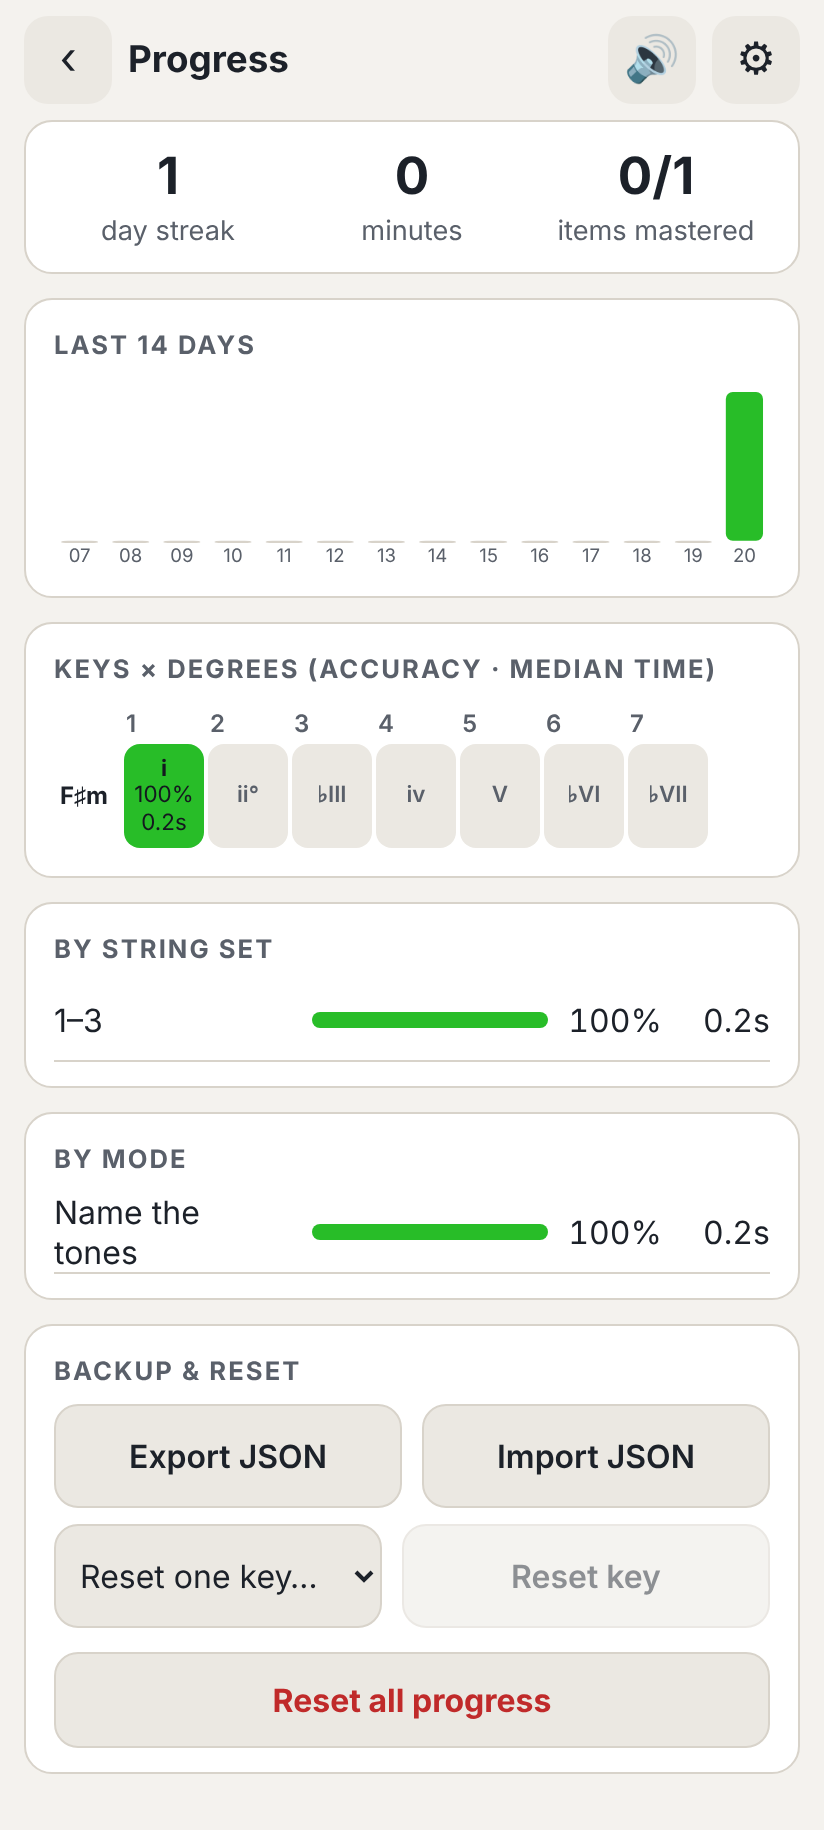
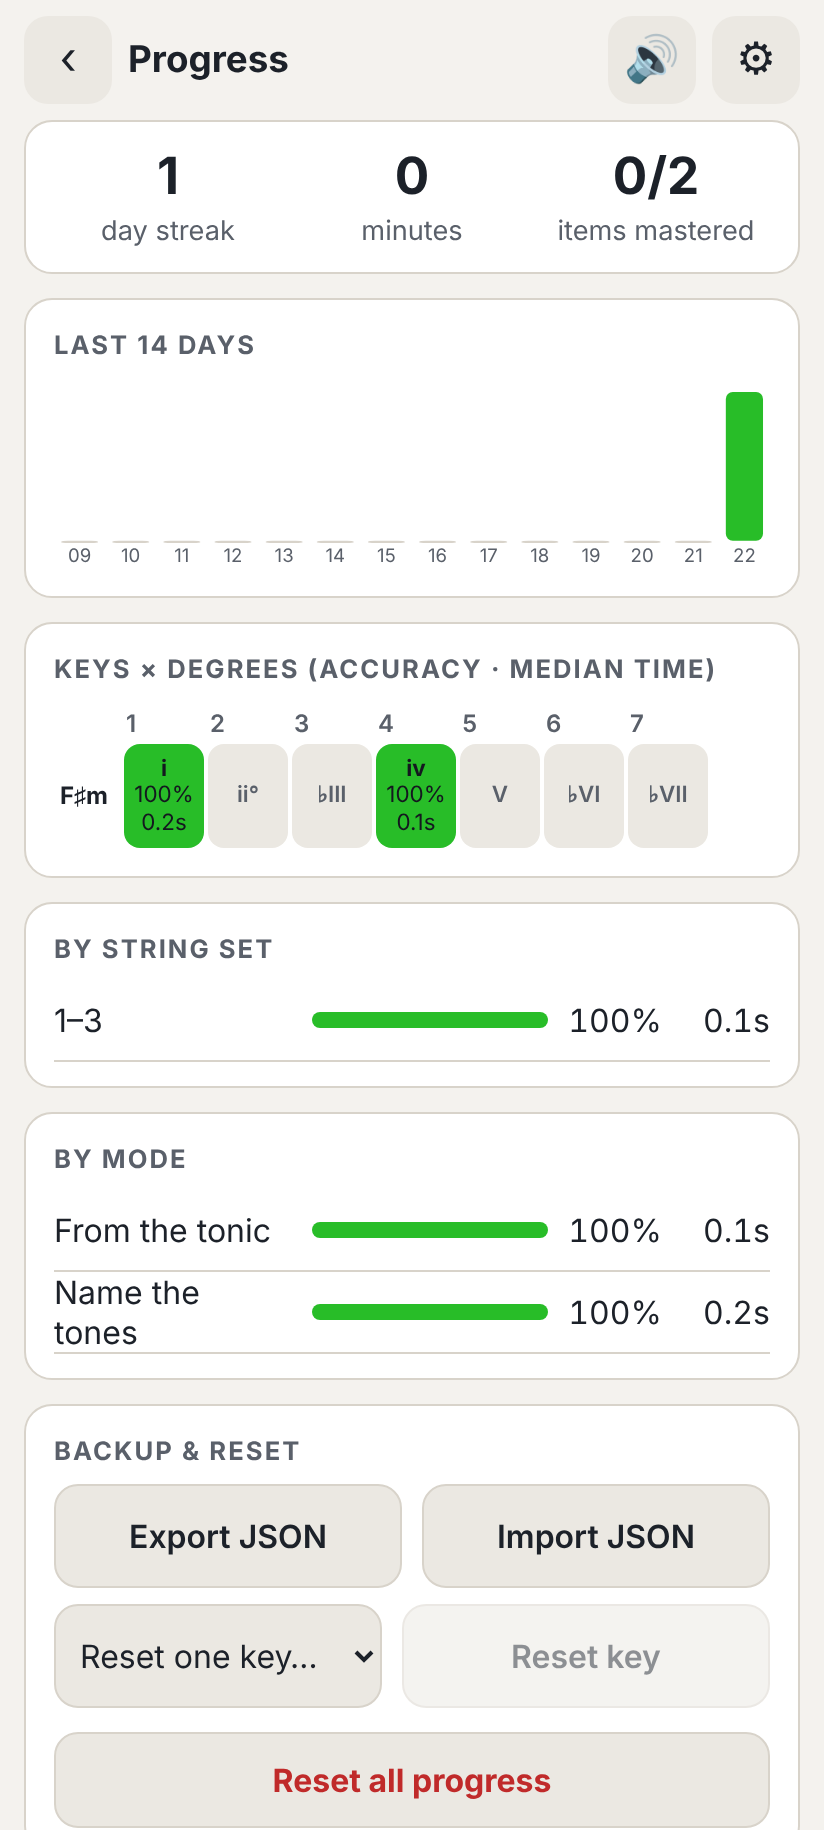
Docs: README screenshots/help for Help & about; standing rule to keep README and in-app help current
Claude-Session: https://claude.ai/code/session_011ir8KKaZ7qjeFtFQ81JPch

diff --git a/src/exercises/modes.test.ts b/src/exercises/modes.test.ts
@@ -1,0 +1,12 @@
+import { describe, expect, it } from 'vitest';
+import { MODES } from './modes';
+
+describe('in-app help covers every mode', () => {
+  it('each mode has a name, a one-line description and a "How it works" help text', () => {
+    for (const m of MODES) {
+      expect(m.name.length, m.id).toBeGreaterThan(3);
+      expect(m.description.length, m.id).toBeGreaterThan(15);
+      expect(m.help.length, m.id).toBeGreaterThan(80);
+    }
+  });
+});

diff --git a/tests/e2e/readme-shots.spec.ts b/tests/e2e/readme-shots.spec.ts
@@ -89,6 +89,10 @@ test.describe('phone', () => {
 
     await page.goto('./#/stats');
     await page.screenshot({ path: `${DIR}/progress.png` });
+
+    await page.goto('./');
+    await page.getByRole('button', { name: /^Help & about/ }).click();
+    await page.screenshot({ path: `${DIR}/help.png` });
   });
 });
 

diff --git a/CLAUDE.md b/CLAUDE.md
@@ -70,6 +70,18 @@ merge each milestone PR yourself once checks pass.
 - Every PR gets a preview link (PR comment, built by `preview.yml`) with demo data; point the
   owner to it for UI changes. Previews must not touch the live app's storage.
 - Add a line to `docs/CHANGELOG.md` for each PR.
+- **Keep user-facing docs current in the same PR.** If a PR changes anything a user can
+  see or do, the same PR must:
+  1. Regenerate the README screenshots (`npm run build && README_SHOTS=1 npx playwright
+test tests/e2e/readme-shots.spec.ts --trace off`), extending
+     `tests/e2e/readme-shots.spec.ts` when a new screen or feature deserves a shot, look at
+     them, and update the README text that describes the change.
+  2. Update the in-app help: _Help & about_ (`src/ui/screens/About.tsx`) and the mode's
+     `description` / `help` in `src/exercises/modes.ts`, so they describe the app as it is
+     after the PR (screens, names of buttons and settings, behaviour).
+  3. Tick both in the PR template's checklist (`.github/pull_request_template.md`).
+     Stacked PRs: each PR's README and help match that PR; regenerate again after merging a
+     base branch in.
 - If you find a spec gap or ambiguity, make a reasonable choice, document it in the PR,
   and propose a SPEC.md edit in the same PR.
 

diff --git a/README.md b/README.md
@@ -61,10 +61,14 @@ R–3–7 shells), in **one key or a random key** per question.
   strum when you're right, a muted thunk when you're not.
 - **Hints you control.** Role labels and colours on a given shape can be hidden, since
   they give the answer away.
+- **Help built in.** _Help & about_ explains getting started, the main ideas (roles,
+  numerals, string sets, inversions, anchors…) and every mode; each mode's setup has a
+  short _How it works_.
 
 <p>
   <img src="docs/screenshots/readme/quality-switch-dark.png" width="24%" alt="Quality switch in dark mode: D major turned minor by moving the 3rd down a fret">
   <img src="docs/screenshots/readme/home.png" width="24%" alt="Home screen">
+  <img src="docs/screenshots/readme/help.png" width="24%" alt="Help & about: getting started, the main ideas, every mode">
 </p>
 
 ## Development

diff --git a/docs/CHANGELOG.md b/docs/CHANGELOG.md
@@ -29,3 +29,4 @@
 - Name the chord: new "scale degree → chord" question type that tests root and quality together.
 - Navigation & help: single Preferences entry, Back from Preferences returns to the session (unanswered question regenerated if settings changed), Help & about page with GitHub link, per-mode help, build version on Home.
 - PR previews: every PR gets a live preview link with its own storage and demo data; Pages now served from the gh-pages branch.
+- Docs: README screenshots and text updated for Help & about; standing rule (CLAUDE.md + PR template) to keep README screenshots and in-app help current in every PR.

diff --git a/.github/pull_request_template.md b/.github/pull_request_template.md
@@ -1,0 +1,11 @@
+## What changed
+
+## How it was tested
+
+## Checklist
+
+- [ ] `npm run lint && npm test && npm run build` pass (and `npm run test:e2e` / `npm run audit` for UI changes)
+- [ ] README screenshots regenerated and README text updated — or this PR changes nothing users see
+- [ ] In-app help (Help & about, mode descriptions and "How it works") matches the app after this PR — or nothing users see changed
+- [ ] `docs/CHANGELOG.md` line added; decisions logged in `docs/DECISIONS.md`
+- [ ] Preview link checked (posted as a comment on this PR)
